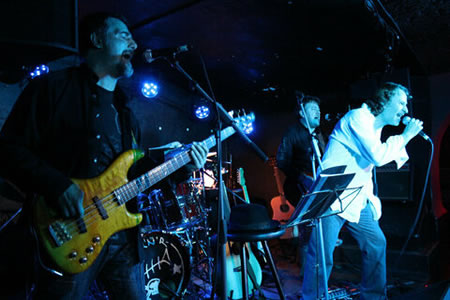
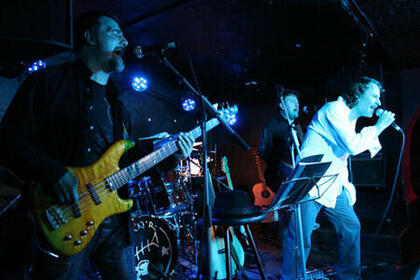
PAC3 Optimitzacions PageSpeed Insights: 2a iteració

diff --git a/src/presentacio.html b/src/presentacio.html
@@ -11,7 +11,8 @@
 		<link rel="icon" href="images/favicon.ico" type="image/x-icon">
 
 		<link rel="preload" as="image" href="images/d_c_header.jpg?as=webp" />
-		<link rel="preload" as="image" href="images/d&c-sidecar-moment-1-m_480w_2.jpg?as=webp" />
+		<link rel="preload" as="image" href="images/d&c-sidecar-moment-1-m_450w.jpg?as=webp" />
+		<link rel="preload" as="image" href="images/d&c-sidecar-moment-1-d_1920w.jpg?as=webp" />
 
 		<style type="text/css">
 			/*! hamburger-menu v0.4.0 ☰ https://github.com/center-key/hamburger-menu ☰ MIT License */
@@ -21,7 +22,7 @@
 			html body{padding:35px 10px 0 10px;cursor:pointer}nav.hamburger-menu{cursor:auto}nav.hamburger-menu a.hamburger{display:block;position:absolute;top:0;left:0;font-size:1.4rem;font-weight:700;text-decoration:none;padding:6px 10px 8px 8px}nav.hamburger-menu a.hamburger:not(:hover){transition:opacity .5s .8s}nav.hamburger-menu a.hamburger:hover{opacity:0}nav.hamburger-menu aside{max-width:0;overflow:hidden;transition:max-width 1s}nav.hamburger-menu aside ul li{white-space:nowrap}nav.hamburger-menu:not(.collapse-menu):hover .hamburger+aside{max-width:400px;overflow-y:scroll}*{margin:0 auto;padding:0;box-sizing:border-box}html{font-family:Raleway,sans-serif;font-size:2.27vw;color:#000;box-sizing:border-box}html body{padding:0;cursor:initial}abbr{text-decoration:none}img{max-width:100%;display:block}ul{list-style:none}picture,picture img{display:block}picture img{width:100%;height:auto}h1 i,h2 i{font-style:initial}body>header{position:sticky;top:0;background-color:#fff;padding:5.2rem 0 4rem;box-shadow:0 3px 16px 0 rgba(74,74,74,.2);z-index:10;visibility:visible;opacity:1;transition:opacity .5s linear}body>header.hidden{visibility:hidden;opacity:0;transition:visibility 0s .5s,opacity .5s linear}body>header>div>a{display:block;width:max-content;margin:0 auto 0 auto;text-align:center;text-decoration:none}body>header>div>a svg line:nth-of-type(1){animation-name:linia1;animation-duration:3s;animation-timing-function:ease-out;animation-iteration-count:1}body>header>div>a svg line:nth-of-type(2){animation-name:linia2;animation-duration:3s;animation-timing-function:ease-out;animation-iteration-count:1}@keyframes linia1{from{transform:translateY(1px)}to{transform:translateY(78px)}}@keyframes linia2{from{transform:translateY(0)}to{transform:translateY(-78px)}}body>header>div>a>p{font-size:1.5rem;color:#5f030e}body>header>div>a img{width:27.1rem}nav.hamburger-menu aside{width:31rem;background-color:#f1e9e9}nav.hamburger-menu{color:#5f030e;background-color:#fff}nav.hamburger-menu aside>ul{margin:8rem 4.2rem 0 2.2rem;padding:0 0 1rem 0;border-bottom: 1px dashed #5f030e;}nav.hamburger-menu aside>ul:nth-of-type(2){margin-top:22rem}nav.hamburger-menu aside>ul:nth-of-type(2) li a,nav.hamburger-menu aside>ul:nth-of-type(2) li span{color:#000;font-size:1.7rem}nav.hamburger-menu aside ul li a,nav.hamburger-menu aside ul li span{font-size:2.1rem;padding:0;margin:0 0 1.3rem 1rem;max-width:max-content}nav.hamburger-menu aside ul li.current{border-color:transparent}nav.hamburger-menu aside ul li.current>a,nav.hamburger-menu aside ul li.current>span,nav.hamburger-menu aside ul li>a:hover,nav.hamburger-menu aside ul li>span:hover{color:rgba(0,0,0,.5);background-color:#f1e9e9}nav.hamburger-menu a.hamburger{font-size:3rem;padding:2rem 1.4rem}@media screen and (min-width:667px){html{font-size:.8vw}html body{background-color:#f1e9e9}nav.hamburger-menu:not(.collapse-menu):hover .hamburger+aside{max-width:initial;overflow-y:initial}nav.hamburger-menu a.hamburger:not(:hover),nav.hamburger-menu aside>ul:nth-of-type(2){display:none}nav.hamburger-menu aside{max-width:100%;position:static;background-color:#fff}nav.hamburger-menu aside>ul{margin:0;background:0 0;padding:0}nav.hamburger-menu aside ul li a,nav.hamburger-menu aside ul li span{margin:0}body>header{padding:3rem 0 2.4rem 0}body>header>div>a{margin:0 auto 2.4rem auto}nav.hamburger-menu{margin-bottom:0}nav.hamburger-menu aside{width:43rem;margin:0 auto;text-align:center}nav.hamburger-menu aside ul li{display:inline-block;margin:0 1.6rem}nav.hamburger-menu aside ul li a,nav.hamburger-menu aside ul li span{text-transform:uppercase;font-size:2rem}nav.hamburger-menu aside ul li.current>a,nav.hamburger-menu aside ul li.current>span,nav.hamburger-menu aside ul li>a:hover,nav.hamburger-menu aside ul li>span:hover{background-color:transparent;color:#dd051f;text-decoration:underline}}@media screen and (min-width:1030px){html{font-size:10px}nav.hamburger-menu aside ul li a,nav.hamburger-menu aside ul li span{text-transform:uppercase;font-size:1.8rem}}
 
 			/* Critical CSS - This page */
-			body>main>header{background-color: #f1e9e9;max-width:2145px;width:100%;height:15.1em;overflow:hidden}body>main>header>picture>img{width: 82%;}@media screen and (min-width:1030px){body>main>header{height:auto}}.presentacio-page main{margin:0;padding:0}.presentacio-page main>section:nth-of-type(1){background-color:#f1e9e9;padding:4rem 4rem 2rem 4rem}.presentacio-page main>section:nth-of-type(1) h1{font-size:2rem;color:#5f030e;margin:0 0 2.3rem 0}.presentacio-page main>section:nth-of-type(1)>p{font-size:1.6rem;line-height:1.5;margin:0 0 3rem 0}
+			body>main>header{max-width:2145px;width:100%;height:29.4em;overflow:hidden}@media screen and (min-width:1030px){body>main>header{height:auto}}.presentacio-page main{margin:0;padding:0}.presentacio-page main>section:nth-of-type(1){background-color:#f1e9e9;padding:4rem 4rem 2rem 4rem}.presentacio-page main>section:nth-of-type(1) h1{font-size:2rem;color:#5f030e;margin:0 0 2.3rem 0}.presentacio-page main>section:nth-of-type(1)>p{font-size:1.6rem;line-height:1.5;margin:0 0 3rem 0}
 		</style>
 
 		<link rel="preload" as="script" href="js/app.js" />
@@ -76,7 +77,7 @@
 			<header>
 				<!-- Responsive images: Art direction -->
 				<picture>
-					<source media="(max-width:480px)" srcset="images/d&c-sidecar-moment-1-m_480w_2.jpg?as=webp" type="image/webp">
+					<source media="(max-width:480px)" srcset="images/d&c-sidecar-moment-1-m_450w.jpg?as=webp" type="image/webp">
 					<source media="(max-width:667px)" srcset="images/d&c-sidecar-moment-1-m_667w.jpg?as=webp" type="image/webp">
 					<source media="(min-width: 1920px)" srcset="images/d&c-sidecar-moment-1-d_1920w.jpg?as=webp" type="image/webp">
 					<source media="(min-width: 1440px)" srcset="images/d&c-sidecar-moment-1-d_1440w.jpg?as=webp" type="image/webp">

diff --git a/src/videos.html b/src/videos.html
@@ -11,12 +11,9 @@
 		<link rel="icon" href="images/favicon.ico" type="image/x-icon">
 
 		<link rel="preload" as="image" href="images/d_c_header.jpg?as=webp" />
-		<link rel="preload" as="image" href="images/d&c-slow-m_480w.jpg?as=webp" />
-		<link rel="preload" as="script" href="js/app.js" />
+		<link rel="preload" as="image" href="images/d&c-slow-m_450w.jpg?as=webp" />
+		<link rel="preload" as="image" href="images/d&c-slow-d_1920w.jpg?as=webp" />
 
-		<script defer src="https://cdnjs.cloudflare.com/ajax/libs/jquery/3.6.0/jquery.min.js"></script>
-		<script defer src="https://cdn.jsdelivr.net/npm/youtube-lite/dist/youtube-lite.min.js"></script>
-		
 		<style type="text/css">
 			/*! hamburger-menu v0.4.0 ☰ https://github.com/center-key/hamburger-menu ☰ MIT License */
 			body{margin:0;padding-bottom:0;padding-top:0}nav.hamburger-menu a.hamburger{background-color:inherit;color:inherit;display:none}nav.hamburger-menu aside{background-color:inherit;bottom:0;float:none;left:0;margin:0;overflow-y:scroll;padding:0;position:fixed;top:0;z-index:5000}nav.hamburger-menu aside ul{list-style:none;margin:0;padding:0}nav.hamburger-menu aside ul li a,nav.hamburger-menu aside ul li span{border-bottom:1px solid transparent;border-top:1px solid transparent;color:inherit;cursor:pointer;display:block;font-size:1.1rem;font-weight:700;padding:10px 0 10px 15px;text-align:left;text-decoration:none;transition:all .4s}nav.hamburger-menu aside ul li.current>a,nav.hamburger-menu aside ul li.current>span{border-color:inherit;cursor:default}nav.hamburger-menu aside ul ul li a,nav.hamburger-menu aside ul ul li span{font-size:.8rem;padding:4px 0 4px 30px}@media (max-width:667px){html body{cursor:pointer;padding:35px 10px 0}nav.hamburger-menu{cursor:auto}nav.hamburger-menu a.hamburger{display:block;font-size:1.4rem;font-weight:700;left:0;padding:6px 10px 8px 8px;position:absolute;text-decoration:none;top:0}nav.hamburger-menu a.hamburger:not(:hover){transition:opacity .5s .8s}nav.hamburger-menu a.hamburger:hover{opacity:0}nav.hamburger-menu aside{max-width:0;overflow:hidden;transition:max-width 1s}nav.hamburger-menu aside ul li{white-space:nowrap}nav.hamburger-menu:not(.collapse-menu):hover .hamburger+aside{max-width:400px;overflow-y:scroll}}body{padding-left:200px;padding-right:50px}nav.hamburger-menu aside{width:150px}nav.hamburger-menu{background-color:teal;color:#dcdcdc}nav.hamburger-menu aside ul li.current{border-color:#fff}nav.hamburger-menu aside ul li.current>a,nav.hamburger-menu aside ul li.current>span,nav.hamburger-menu aside ul li>a:hover,nav.hamburger-menu aside ul li>span:hover{background-color:#008b8b;color:#fff}
@@ -27,6 +24,11 @@
 			/* Critical CSS - This page */
 			body>main>header{max-width:2145px;width:100%;height:29.4em;overflow:hidden}@media screen and (min-width:1030px){body>main>header{height:auto}}.videos-page main{margin:0;padding:0}.videos-page main section{background-color:#f1e9e9;padding:4rem 4rem 2rem 4rem}.videos-page main section h1{font-size:2rem;color:#5f030e;margin:0 0 2.3rem 0}.videos-page main section>div{max-width:1163px;margin:0 auto;text-align:right}.videos-page main section>div label{font-size:1.4rem;margin:0 .5rem 0 0}.videos-page main section>div select{margin:0 0 2rem 0;display:inline-block;font-size:1.4rem}.videos-page main section>ul li{background-color:#fff}.videos-page main section>ul li iframe{width:81.8vw;height:49.3vw;border:0}.videos-page main section>ul li p{padding:.7rem 1rem;margin:0 0 2rem 0;font-size:1.6rem;font-style:italic;font-weight:600;color:#5f030e}
 		</style>
+
+		<link rel="preload" as="script" href="js/app.js" />
+
+		<script defer src="https://cdnjs.cloudflare.com/ajax/libs/jquery/3.6.0/jquery.min.js"></script>
+		<script defer src="https://cdn.jsdelivr.net/npm/youtube-lite/dist/youtube-lite.min.js"></script>
 
 		<link rel="preconnect" href="https://fonts.googleapis.com">
 		<link rel="preconnect" href="https://fonts.gstatic.com" crossorigin>
@@ -74,7 +76,7 @@
 			<header>
 				<!-- Responsive images: Art direction -->
 				<picture>
-					<source media="(max-width:480px)" srcset="images/d&c-slow-m_480w.jpg?as=webp" type="image/webp">
+					<source media="(max-width:480px)" srcset="images/d&c-slow-m_450w.jpg?as=webp" type="image/webp">
 					<source media="(max-width:667px)" srcset="images/d&c-slow-m_667w.jpg?as=webp" type="image/webp">
 					<source media="(min-width: 1920px)" srcset="images/d&c-slow-d_1920w.jpg?as=webp" type="image/webp">
 					<source media="(min-width: 1440px)" srcset="images/d&c-slow-d_1440w.jpg?as=webp" type="image/webp">

diff --git a/src/index.html b/src/index.html
@@ -10,15 +10,8 @@
 
 		<link rel="preload" as="image" href="images/favicon.ico" />
 		<link rel="preload" as="image" href="images/d_c_header.jpg?as=webp" />
-		<link rel="preload" as="image" href="images/d&c-bikini-moment-1-m_480w.jpg?as=webp" />
-
-		<link rel="icon" href="images/favicon.ico" type="image/x-icon">
-
-		<link rel="preload" as="script" href="js/app.js" />
-
-		<script defer src="https://cdnjs.cloudflare.com/ajax/libs/jquery/3.6.0/jquery.min.js"></script>
-		<script defer src="https://cdn.jsdelivr.net/npm/hamburger-menu@0.3/dist/hamburger-menu.min.js"></script>
-		<script defer src="https://cdn.jsdelivr.net/npm/youtube-lite/dist/youtube-lite.min.js"></script>
+		<link rel="preload" as="image" href="images/d&c-bikini-moment-1-m_450w.jpg?as=webp" />
+		<link rel="preload" as="image" href="images/d&c-bikini-moment-1-d_1920w.jpg?as=webp" />
 
 		<style type="text/css">
 			/* Tiny slider CSS to avoid @import */
@@ -33,6 +26,14 @@
 			/* Critical CSS - This page */
 			body>main>header{max-width:2145px;width:100%;height:33em;overflow:hidden}.home-page main header .tns-nav{text-align:center;padding:10px 0;background-color:#f1e9e9}.home-page main header .tns-nav>[aria-controls]{width:9px;height:9px;padding:0;margin:0 5px;border-radius:50%;background:#ccc8c8;border:0}.home-page main header .tns-nav>.tns-nav-active{background:#5f030e}.home-page main{margin:0;padding:0}.home-page main>section:nth-of-type(1){background-color:#f1e9e9;padding:4rem 4rem}.home-page main>section:nth-of-type(1) h1{font-size:2rem;color:#5f030e;margin:0 0 2.3rem 0}.home-page main>section:nth-of-type(1)>h2{font-weight:600;font-size:1.6rem;line-height:1.4;color:#5f030e;margin:0 0 3.3rem 0}.home-page main>section:nth-of-type(1)>p{font-size:1.6rem;line-height:1.5;margin:0 0 3rem 0}.home-page main>section:nth-of-type(1)>a{font-weight:600;font-size:1.6rem;line-height:1.4;color:#5f030e;margin:0;text-decoration:none;border-bottom:1px dotted #5f030e}.home-page main>section:nth-of-type(1)>a:hover{color:rgba(0,0,0,.5);border-bottom:1px dotted rgba(0,0,0,.5);transform:scale(1.1);transition:all ease .5s}.home-page main>div:nth-of-type(1){background-color:#f1e9e9;padding:0 4rem 3rem 4rem}.home-page main>div:nth-of-type(1)>iframe{width:37rem;height:23rem;display:block;margin:0 0 1rem 0;border:0}.home-page main>div:nth-of-type(1)>a{font-weight:600;font-size:1.6rem;line-height:1.4;color:#5f030e;margin:0;text-decoration:none;border-bottom:1px dotted #5f030e}.home-page main>div:nth-of-type(1)>a:hover{color:rgba(0,0,0,.5);border-bottom:1px dotted rgba(0,0,0,.5)}@media screen and (min-width:1030px){body>main>header{height:78em}}
 		</style>
+
+		<link rel="icon" href="images/favicon.ico" type="image/x-icon">
+
+		<link rel="preload" as="script" href="js/app.js" />
+
+		<script defer src="https://cdnjs.cloudflare.com/ajax/libs/jquery/3.6.0/jquery.min.js"></script>
+		<script defer src="https://cdn.jsdelivr.net/npm/hamburger-menu@0.3/dist/hamburger-menu.min.js"></script>
+		<script defer src="https://cdn.jsdelivr.net/npm/youtube-lite/dist/youtube-lite.min.js"></script>
 
 		<link rel="preconnect" href="https://fonts.googleapis.com">
 		<link rel="preconnect" href="https://fonts.gstatic.com" crossorigin>
@@ -82,7 +83,7 @@
 					<div>
 						<!-- Responsive images: Art direction -->
 						<picture>
-							<source media="(max-width:480px)" srcset="images/d&c-bikini-moment-1-m_480w.jpg?as=webp" type="image/webp">
+							<source media="(max-width:480px)" srcset="images/d&c-bikini-moment-1-m_450w.jpg?as=webp" type="image/webp">
 							<source media="(max-width:667px)" srcset="images/d&c-bikini-moment-1-m_667w.jpg?as=webp" type="image/webp">
 							<source media="(min-width: 1920px)" srcset="images/d&c-bikini-moment-1-d_1920w.jpg?as=webp" type="image/webp">
 							<source media="(min-width: 1440px)" srcset="images/d&c-bikini-moment-1-d_1440w.jpg?as=webp" type="image/webp">

diff --git a/src/jorge-embaucador.html b/src/jorge-embaucador.html
@@ -11,13 +11,9 @@
 		<link rel="icon" href="images/favicon.ico" type="image/x-icon">
 
 		<link rel="preload" as="image" href="images/d_c_header.jpg?as=webp" />
-		<link rel="preload" as="image" href="images/d&c-pl-reial-m_480w.jpg?as=webp" />
+		<link rel="preload" as="image" href="images/d&c-pl-reial-m_450w.jpg?as=webp" />
 		<link rel="preload" as="image" href="images/destacada_jorge_embaucador_480w.jpg?as=webp" />
-
-		<link rel="preload" as="script" href="js/app.js" />
-
-		<script defer src="https://cdnjs.cloudflare.com/ajax/libs/jquery/3.6.0/jquery.min.js"></script>
-		<script defer src="https://unpkg.com/lite-vimeo-embed"></script>
+		<link rel="preload" as="image" href="images/d&c-pl-reial-d_1920w.jpg?as=webp" />
 
 		<style type="text/css">
 			/*! hamburger-menu v0.4.0 ☰ https://github.com/center-key/hamburger-menu ☰ MIT License */
@@ -29,6 +25,11 @@
 			/* Critical CSS - This page */
 			body>main>header{max-width:2145px;width:100%;height:29.4em;overflow:hidden}@media screen and (min-width:1030px){body>main>header{height:auto}}.detall-treball-page main{margin:0;padding:0;background-color:#f1e9e9}.detall-treball-page main>nav{padding:4.5rem 2.5rem 2.5rem}.detall-treball-page main>nav>ul>li{display:inline-block;font-size:1.4rem;color:#000}.detall-treball-page main>nav>ul>li a{font-size:1.4rem;color:#000;text-decoration:none;border-bottom:1px dotted #000}.detall-treball-page main>section:nth-of-type(1){margin:0 2.5rem 2.5rem}.detall-treball-page main>section:nth-of-type(1) h1{font-size:2rem;color:#5f030e;text-align:left;margin:0 0 3.3rem 0}.detall-treball-page main>section:nth-of-type(1)>article{background-color:#fff;margin:0 0 3rem 0;padding:2rem}.detall-treball-page main>section:nth-of-type(1)>article h2{font-size:1.8rem;color:#5f030e;margin:0 0 2.3rem 0;font-weight:600}.detall-treball-page main>section:nth-of-type(1)>article>picture{margin:0 0 2rem 0}.detall-treball-page main>section:nth-of-type(1)>article>img{margin:0 auto 2.5rem auto;max-width:906px;width:100%;height:auto}
 		</style>
+
+		<link rel="preload" as="script" href="js/app.js" />
+
+		<script defer src="https://cdnjs.cloudflare.com/ajax/libs/jquery/3.6.0/jquery.min.js"></script>
+		<script defer src="https://unpkg.com/lite-vimeo-embed"></script>
 
 		<link rel="preconnect" href="https://fonts.googleapis.com">
 		<link rel="preconnect" href="https://fonts.gstatic.com" crossorigin>
@@ -76,7 +77,7 @@
 			<header>
 				<!-- Responsive images: Art direction -->
 				<picture>
-					<source media="(max-width:480px)" srcset="images/d&c-pl-reial-m_480w.jpg?as=webp" type="image/webp">
+					<source media="(max-width:480px)" srcset="images/d&c-pl-reial-m_450w.jpg?as=webp" type="image/webp">
 					<source media="(max-width:667px)" srcset="images/d&c-pl-reial-m_667w.jpg?as=webp" type="image/webp">
 					<source media="(min-width: 1920px)" srcset="images/d&c-pl-reial-d_1920w.jpg?as=webp" type="image/webp">
 					<source media="(min-width: 1440px)" srcset="images/d&c-pl-reial-d_1440w.jpg?as=webp" type="image/webp">

diff --git a/src/material-de-derribo.html b/src/material-de-derribo.html
@@ -11,12 +11,9 @@
 		<link rel="icon" href="images/favicon.ico" type="image/x-icon">
 
 		<link rel="preload" as="image" href="images/d_c_header.jpg?as=webp" />
-		<link rel="preload" as="image" href="images/d&c-sidecar-moment-2-m_480w.jpg?as=webp" />
+		<link rel="preload" as="image" href="images/d&c-sidecar-moment-2-m_450w.jpg?as=webp" />
 		<link rel="preload" as="image" href="images/destacada_material_derribo_480w.jpg?as=webp" />
-
-		<link rel="preload" as="script" href="js/app.js" />
-
-		<script defer src="https://cdnjs.cloudflare.com/ajax/libs/jquery/3.6.0/jquery.min.js"></script>
+		<link rel="preload" as="image" href="images/d&c-sidecar-moment-2-d_1920w.jpg?as=webp" />
 
 		<style type="text/css">
 			/*! hamburger-menu v0.4.0 ☰ https://github.com/center-key/hamburger-menu ☰ MIT License */
@@ -28,6 +25,10 @@
 			/* Critical CSS - This page */
 			body>main>header{max-width:2145px;width:100%;height:29.4em;overflow:hidden}@media screen and (min-width:1030px){body>main>header{height:auto}}.detall-treball-page main{margin:0;padding:0;background-color:#f1e9e9}.detall-treball-page main>nav{padding:4.5rem 2.5rem 2.5rem}.detall-treball-page main>nav>ul>li{display:inline-block;font-size:1.4rem;color:#000}.detall-treball-page main>nav>ul>li a{font-size:1.4rem;color:#000;text-decoration:none;border-bottom:1px dotted #000}.detall-treball-page main>section:nth-of-type(1){margin:0 2.5rem 2.5rem}.detall-treball-page main>section:nth-of-type(1) h1{font-size:2rem;color:#5f030e;text-align:left;margin:0 0 3.3rem 0}.detall-treball-page main>section:nth-of-type(1)>article{background-color:#fff;margin:0 0 3rem 0;padding:2rem}.detall-treball-page main>section:nth-of-type(1)>article h2{font-size:1.8rem;color:#5f030e;margin:0 0 2.3rem 0;font-weight:600}.detall-treball-page main>section:nth-of-type(1)>article>picture{margin:0 0 2rem 0}.detall-treball-page main>section:nth-of-type(1)>article>img{margin:0 auto 2.5rem auto;max-width:906px;width:100%;height:auto}
 		</style>
+
+		<link rel="preload" as="script" href="js/app.js" />
+
+		<script defer src="https://cdnjs.cloudflare.com/ajax/libs/jquery/3.6.0/jquery.min.js"></script>
 
 		<link rel="preconnect" href="https://fonts.googleapis.com">
 		<link rel="preconnect" href="https://fonts.gstatic.com" crossorigin>
@@ -75,7 +76,7 @@
 			<header>
 				<!-- Responsive images: Art direction -->
 				<picture>
-					<source media="(max-width:480px)" srcset="images/d&c-sidecar-moment-2-m_480w.jpg?as=webp" type="image/webp">
+					<source media="(max-width:480px)" srcset="images/d&c-sidecar-moment-2-m_450w.jpg?as=webp" type="image/webp">
 					<source media="(max-width:667px)" srcset="images/d&c-sidecar-moment-2-m_667w.jpg?as=webp" type="image/webp">
 					<source media="(min-width: 1920px)" srcset="images/d&c-sidecar-moment-2-d_1920w.jpg?as=webp" type="image/webp">
 					<source media="(min-width: 1440px)" srcset="images/d&c-sidecar-moment-2-d_1440w.jpg?as=webp" type="image/webp">

diff --git a/src/con-esa-pesada-costumbre-de-siempre-sonreir.html b/src/con-esa-pesada-costumbre-de-siempre-sonreir.html
@@ -11,12 +11,9 @@
 		<link rel="icon" href="images/favicon.ico" type="image/x-icon">
 
 		<link rel="preload" as="image" href="images/d_c_header.jpg?as=webp" />
-		<link rel="preload" as="image" href="images/dc-parc-m_480w.jpg?as=webp" />
+		<link rel="preload" as="image" href="images/dc-parc-m_450w.jpg?as=webp" />
 		<link rel="preload" as="image" href="images/destacada_con_esa_pesada_costumbre_480w.jpg?as=webp" />
-
-		<link rel="preload" as="script" href="js/app.js" />
-
-		<script defer src="https://cdnjs.cloudflare.com/ajax/libs/jquery/3.6.0/jquery.min.js"></script>
+		<link rel="preload" as="image" href="images/dc-parc-d_1920w.jpg?as=webp" />
 
 		<style type="text/css">
 			/*! hamburger-menu v0.4.0 ☰ https://github.com/center-key/hamburger-menu ☰ MIT License */
@@ -28,6 +25,10 @@
 			/* Critical CSS - This page */
 			body>main>header{max-width:2145px;width:100%;height:29.4em;overflow:hidden}@media screen and (min-width:1030px){body>main>header{height:auto}}.detall-treball-page main{margin:0;padding:0;background-color:#f1e9e9}.detall-treball-page main>nav{padding:4.5rem 2.5rem 2.5rem}.detall-treball-page main>nav>ul>li{display:inline-block;font-size:1.4rem;color:#000}.detall-treball-page main>nav>ul>li a{font-size:1.4rem;color:#000;text-decoration:none;border-bottom:1px dotted #000}.detall-treball-page main>section:nth-of-type(1){margin:0 2.5rem 2.5rem}.detall-treball-page main>section:nth-of-type(1) h1{font-size:2rem;color:#5f030e;text-align:left;margin:0 0 3.3rem 0}.detall-treball-page main>section:nth-of-type(1)>article{background-color:#fff;margin:0 0 3rem 0;padding:2rem}.detall-treball-page main>section:nth-of-type(1)>article h2{font-size:1.8rem;color:#5f030e;margin:0 0 2.3rem 0;font-weight:600}.detall-treball-page main>section:nth-of-type(1)>article>picture{margin:0 0 2rem 0}.detall-treball-page main>section:nth-of-type(1)>article>img{margin:0 auto 2.5rem auto;max-width:906px;width:100%;height:auto}
 		</style>
+
+		<link rel="preload" as="script" href="js/app.js" />
+
+		<script defer src="https://cdnjs.cloudflare.com/ajax/libs/jquery/3.6.0/jquery.min.js"></script>
 
 		<link rel="preconnect" href="https://fonts.googleapis.com">
 		<link rel="preconnect" href="https://fonts.gstatic.com" crossorigin>
@@ -75,7 +76,7 @@
 			<header>
 				<!-- Responsive images: Art direction -->
 				<picture>
-					<source media="(max-width:480px)" srcset="images/dc-parc-m_480w.jpg?as=webp" type="image/webp">
+					<source media="(max-width:480px)" srcset="images/dc-parc-m_450w.jpg?as=webp" type="image/webp">
 					<source media="(max-width:667px)" srcset="images/dc-parc-m_667w.jpg?as=webp" type="image/webp">
 					<source media="(min-width: 1920px)" srcset="images/dc-parc-d_1920w.jpg?as=webp" type="image/webp">
 					<source media="(min-width: 1440px)" srcset="images/dc-parc-d_1440w.jpg?as=webp" type="image/webp">

diff --git a/src/enllacos.html b/src/enllacos.html
@@ -11,11 +11,8 @@
 		<link rel="icon" href="images/favicon.ico" type="image/x-icon">
 
 		<link rel="preload" as="image" href="images/d_c_header.jpg?as=webp" />
-		<link rel="preload" as="image" href="images/d&c-sidecar-moment-3-m_480w.jpg?as=webp" />
-
-		<link rel="preload" as="script" href="js/app.js" />
-
-		<script defer src="https://cdnjs.cloudflare.com/ajax/libs/jquery/3.6.0/jquery.min.js"></script>
+		<link rel="preload" as="image" href="images/d&c-sidecar-moment-3-m_450w.jpg?as=webp" />
+		<link rel="preload" as="image" href="images/d&c-sidecar-moment-3-d_1920w.jpg?as=webp" />
 
 		<style type="text/css">
 			/*! hamburger-menu v0.4.0 ☰ https://github.com/center-key/hamburger-menu ☰ MIT License */
@@ -27,6 +24,10 @@
 			/* Critical CSS - This page */
 			body>main>header{max-width:2145px;width:100%;height:29.4em;overflow:hidden}@media screen and (min-width:1030px){body>main>header{height:auto}}.enllacos-page main{margin:0;padding:0}.enllacos-page main section{background-color:#f1e9e9;padding:4rem 4rem 2rem 4rem}.enllacos-page main section h1{font-size:2rem;color:#5f030e;margin:0 0 2.3rem 0}.enllacos-page main section h2{color:#5f030e;font-size:1.6rem;line-height:1.5;margin:0 0 3rem 0;font-weight:600}.enllacos-page main section>p{font-size:1.6rem;line-height:1.5;margin:0 0 3rem 0}.enllacos-page main section>ul{margin:0 0 2.5rem 2.4rem}.enllacos-page main section>ul li a{width:max-content;font-weight:600;margin:0 0 .8rem 0;display:block;text-decoration:none;font-size:1.6rem;line-height:1.5;color:#5f030e;border-bottom:1px dotted #5f030e}
 		</style>
+
+		<link rel="preload" as="script" href="js/app.js" />
+
+		<script defer src="https://cdnjs.cloudflare.com/ajax/libs/jquery/3.6.0/jquery.min.js"></script>
 
 		<link rel="preconnect" href="https://fonts.googleapis.com">
 		<link rel="preconnect" href="https://fonts.gstatic.com" crossorigin>
@@ -74,7 +75,7 @@
 			<header>
 				<!-- Responsive images: Art direction -->
 				<picture>
-					<source media="(max-width:480px)" srcset="images/d&c-sidecar-moment-3-m_480w.jpg?as=webp" type="image/webp">
+					<source media="(max-width:480px)" srcset="images/d&c-sidecar-moment-3-m_450w.jpg?as=webp" type="image/webp">
 					<source media="(max-width:667px)" srcset="images/d&c-sidecar-moment-3-m_667w.jpg?as=webp" type="image/webp">
 					<source media="(min-width: 1920px)" srcset="images/d&c-sidecar-moment-3-d_1920w.jpg?as=webp" type="image/webp">
 					<source media="(min-width: 1440px)" srcset="images/d&c-sidecar-moment-3-d_1440w.jpg?as=webp" type="image/webp">

diff --git a/src/llistat-treballs.html b/src/llistat-treballs.html
@@ -11,12 +11,9 @@
 		<link rel="icon" href="images/favicon.ico" type="image/x-icon">
 
 		<link rel="preload" as="image" href="images/d_c_header.jpg?as=webp" />
-		<link rel="preload" as="image" href="images/d&c-bikini-moment-2-m_480w.jpg?as=webp" />
+		<link rel="preload" as="image" href="images/d&c-bikini-moment-2-m_450w.jpg?as=webp" />
 		<link rel="preload" as="image" href="images/destacada_cat_con_esa_pesada_costumbre_411w.jpg?as=webp" />
-
-		<link rel="preload" as="script" href="js/app.js" />
-
-		<script defer src="https://cdnjs.cloudflare.com/ajax/libs/jquery/3.6.0/jquery.min.js"></script>
+		<link rel="preload" as="image" href="images/d&c-bikini-moment-2-d_1920w.jpg?as=webp" />
 
 		<style type="text/css">
 			/*! hamburger-menu v0.4.0 ☰ https://github.com/center-key/hamburger-menu ☰ MIT License */
@@ -28,6 +25,10 @@
 			/* Critical CSS - This page */
 			body>main>header{max-width:2145px;width:100%;height:29.4em;overflow:hidden}@media screen and (min-width:1030px){body>main>header{height:auto}}.llistat-treballs-page main{margin:0;padding:0}.llistat-treballs-page main>section:nth-of-type(1){background-color:#f1e9e9;padding:0 4rem 1rem 4rem}.llistat-treballs-page main>section:nth-of-type(1)>div>img{width:100%;height:auto}.llistat-treballs-page main>h1{font-size:2rem;color:#5f030e;background-color:#f1e9e9;padding:4rem 4rem 2.3rem;margin:0;text-align:left}
 		</style>
+
+		<link rel="preload" as="script" href="js/app.js" />
+
+		<script defer src="https://cdnjs.cloudflare.com/ajax/libs/jquery/3.6.0/jquery.min.js"></script>
 
 		<link rel="preconnect" href="https://fonts.googleapis.com">
 		<link rel="preconnect" href="https://fonts.gstatic.com" crossorigin>
@@ -75,7 +76,7 @@
 			<header>
 				<!-- Responsive images: Art direction -->
 				<picture>
-					<source media="(max-width:480px)" srcset="images/d&c-bikini-moment-2-m_480w.jpg?as=webp" type="image/webp">
+					<source media="(max-width:480px)" srcset="images/d&c-bikini-moment-2-m_450w.jpg?as=webp" type="image/webp">
 					<source media="(max-width:667px)" srcset="images/d&c-bikini-moment-2-m_667w.jpg?as=webp" type="image/webp">
 					<source media="(min-width: 1920px)" srcset="images/d&c-bikini-moment-2-d_1920w.jpg?as=webp" type="image/webp">
 					<source media="(min-width: 1440px)" srcset="images/d&c-bikini-moment-2-d_1440w.jpg?as=webp" type="image/webp">
